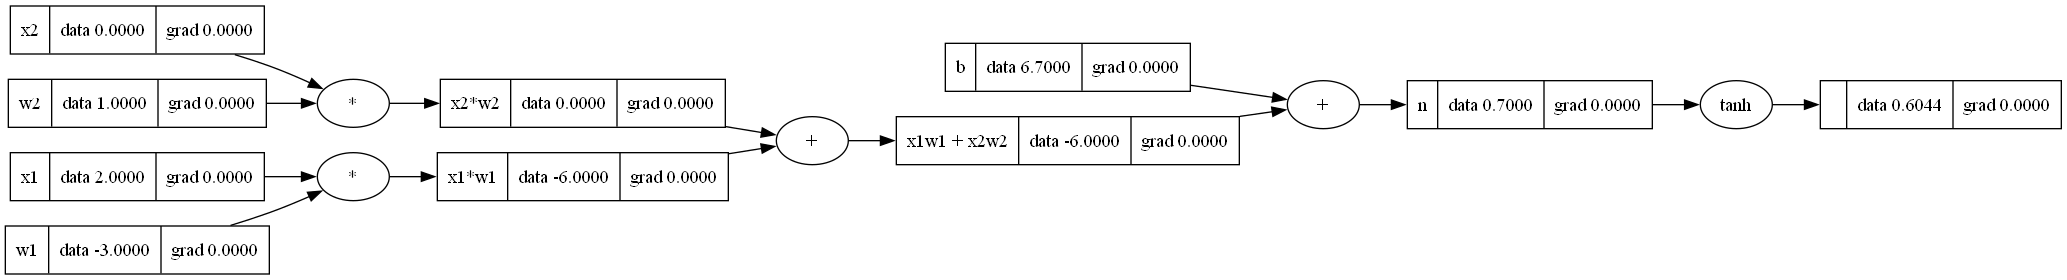
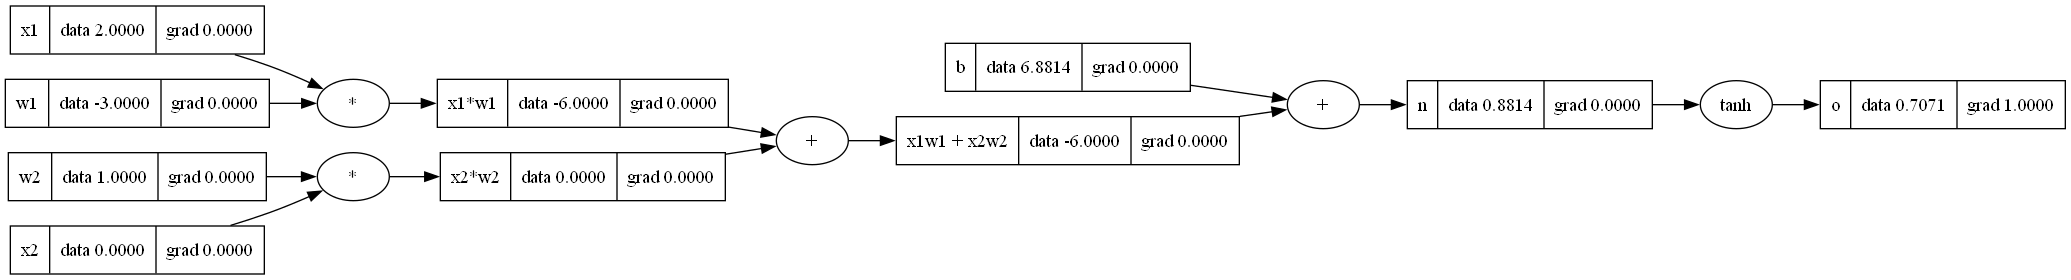
gradient update

diff --git a/micrograd.py b/micrograd.py
@@ -78,14 +78,18 @@ def main():
     w2 = Value(1.0, label='w2')
 
     # bias of the neuron
-    b = Value(6.7, label='b')
+    b = Value(6.8813735870195432, label='b')
 
     # h1*w1 + x2*w2 + b
     x1w1 = x1*w1; x1w1.label = 'x1*w1'
     x2w2 = x2*w2; x2w2.label = 'x2*w2'
     x1w1x2w2 = x1w1 + x2w2; x1w1x2w2.label = 'x1w1 + x2w2'
     n = x1w1x2w2 + b; n.label = 'n'
-    o = n.tanh()
+    o = n.tanh(); o.label = 'o'
+    o.grad = 1.0
+    n.grad = 0.5
+    x1w1x2w2.grad = 0.5
+    b.grad = 0.5
 
     dot = draw_dot(o)
     dot.render('graph', format='png', cleanup=True)
